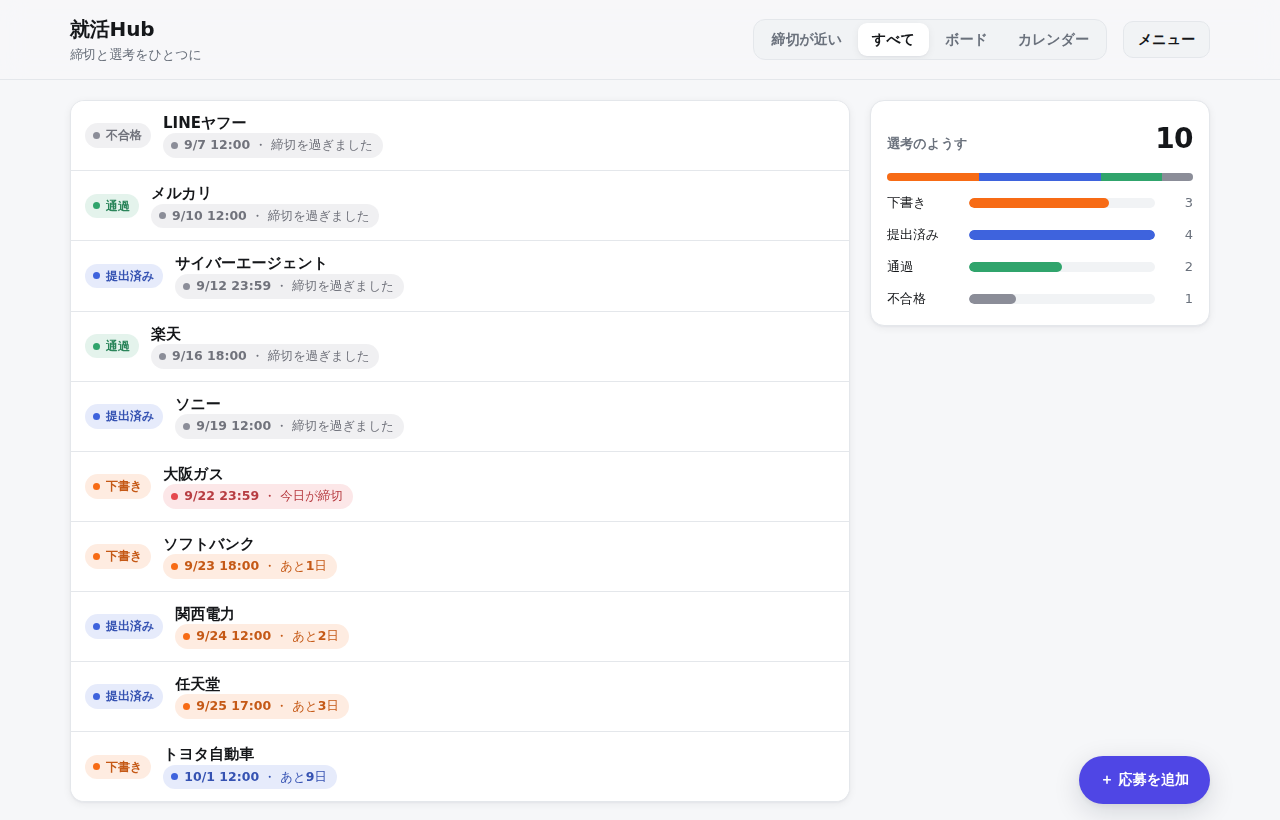
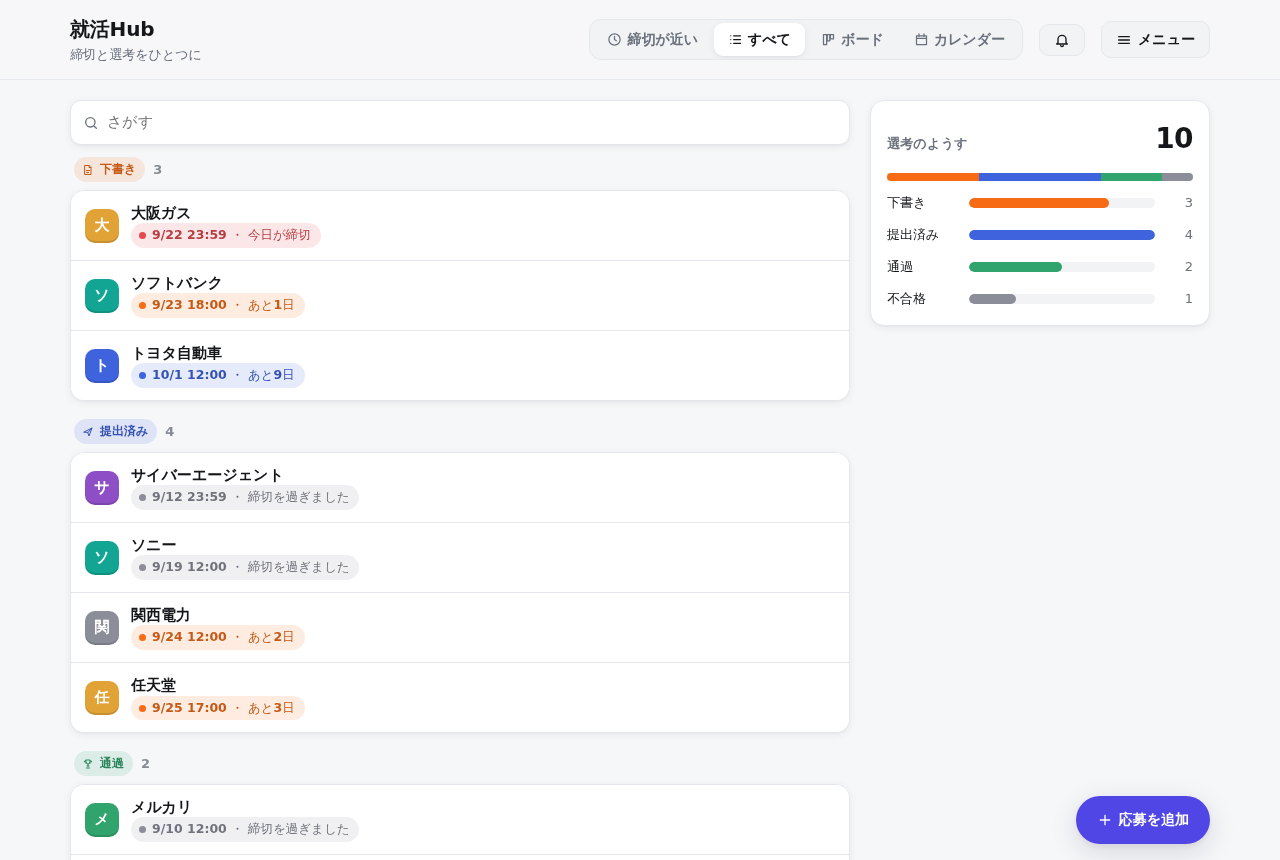
仕様書の画面の追補、QUESTIONS U6-U8、README の画面、REPORT
Claude-Session: https://claude.ai/code/session_019YbMfKhfobYUDvNw6a5grA

diff --git a/docs/言語仕様_v0.2.md b/docs/言語仕様_v0.2.md
@@ -421,11 +421,24 @@ words en
 | style の中の `ボタン名  tone main \| quiet \| good \| danger` | ボタンの強さと色 |
 | `#4F46E5` | `#` のすぐ後ろに16進の色が続く時は、コメントではなく色の値 |
 | `user taps X on 箱の名前` | list の名前でなく thing の名前で書けば、どの一覧・ボード・詳しくから押しても動く |
+| `button 名前 named 文字 icon 名前` | ボタンにアイコン。アイコンは組み込みの24個だけ（無い名前はエラー） |
+| `button 名前 named 文字 confirm "文"` | 押す前に確かめる。やめれば何も起きない |
+| `named "空白を含む 名前"` | 名前は1語。空白を含むなら引用符。ボタンの行に知らない語があればエラー |
+| `match Application.status to icon` / `match tab to icon` | 状態ごと・タブごとのアイコン（色の match とは別に持てる） |
+| `lead company`（look の中） | 頭文字の丸 |
+| `heading "..."`（look の中） | 見出しと件数 |
+| `search company, memo`（look の中） | 一覧の検索 |
+| `group by status`（look の中） | 状態ごとにまとめる |
+| `empty "..." button add named 追加`（look の中） | 1件も無い時の文と、次にやることのボタン |
+| `top  notices` | お知らせのベル（未読の数と一覧） |
+| `go EditApplication with this` | input を with this で開くと、その1件の編集。状態の項目は書き換えられない（move だけ） |
+| words の `"引用符の鍵"  訳` | spec にそのまま書いた日本語も訳せる |
 
 言語が画面を守るもの:
 - **flow で動けないボタンは、自動で押せなくなる。** rule が `move this to X` で、いまの状態から X へ動けなければ、そのボタンは薄くなって押せない。
 - **board でカードを動かすと move が起きる。** flow に無い流れは「『下書き』から『通過』へは動かせません」と断られる。
 - 画面の下（bottom）のボタンだけが目立つ色。上や一覧のボタンは控えめ（最初のボタンだけ強い）。
+- look の title / lead / search / group by に無い項目名、無いアイコン名、読めないボタンの行はエラー（28）。
 
 ### リアルタイム
 - 何も書かなくても画面は常に最新。箱が変わったら、それを見せている画面が自動で変わる。

diff --git a/REPORT.md b/REPORT.md
@@ -131,3 +131,12 @@ python experiment/score.py          # EXPERIMENT.md を上書き
 - 見つけて直した言語のバグ: `#4F46E5` がコメントとして消えていた。`days until` が until の上限チェックに引っかかっていた。
 - ブラウザ（Chromium）で、タブ・ボードのドラッグ（正しい流れと、断られる流れ）・詳しく・追加・メニュー・英語・スマホ・ダークを実際に操作して確かめた。テストは全体で152件通過。
 - 足した語は仕様書 6章の「画面のための追補（要確認）」と QUESTIONS_v0.2.md の U 節。
+
+## v0.2：言語で書ける画面を増やす（完了）
+
+見た目だけでなく、spec に書ける画面の語を増やした。全部チェッカーが見る。
+
+- アイコン（組み込み24個、`icon` と `match ... to icon`）、頭文字の丸（`lead`）、見出し（`heading`）、検索（`search`）、状態ごとのまとまり（`group by`）、空の時のボタン、押す前の確認（`confirm`）、お知らせのベル（`notices`）、編集（input を `with this` で開く）、引用符の鍵で spec の日本語もそのまま訳す（英語で画面の文字が全部切り替わる）。
+- チェッカー: 無いアイコン名、look に書いた無い項目名、読めないボタンの行はエラー（28）。
+- 見つけて直したバグ: 色の match と icon の match を両方書くと色が消えていた。メニューの小窓の背景がヘッダーの下に潜っていた。ボタンの名前に打ち間違いが紛れ込んでいた（名前は1語、空白は引用符に）。
+- ブラウザで、検索・確認（やめる）・編集して保存・ベル・英語・スマホ・ダークを操作して確かめた。画面のエラー0件。テストは全体で163件通過。

diff --git a/QUESTIONS_v0.2.md b/QUESTIONS_v0.2.md
@@ -113,3 +113,12 @@ tabs、this as detail、empty、part の中の計算、days until、match の数
 ### U5. match で「より小さい」が書けなかった
 過ぎた締切（マイナスの日数）を分けるのに、比べる書き方が無かった。
 - 仮: 数の範囲 `..-1` を足した。if を入れずに済む書き方として。
+
+### U6. 編集は input を with this で開く
+- 仮: 新しい語は足さず、`go EditApplication with this` で開いた input はその1件の編集にした。状態の項目は input に並べても書き換えられない（move だけ）。
+
+### U7. ボタンの名前は1語
+- 仮: `named 応募を追加` のように1語。空白を含むなら `named "Mark submitted"`。以前は後ろの語を全部名前にしていたので、打ち間違いが名前に紛れ込んでいた。
+
+### U8. match は「何から何へ」で1つ
+- 見つけたバグ: `match Application.status to color` と `... to icon` を両方書くと、後の方で前の方が消えていた。今は「〇〇 to △△」ごとに別に持つ。

diff --git a/README.md b/README.md
@@ -36,10 +36,14 @@ python -m pytest                                  # テスト
 
 `python -m lang run spec/hub_app.lang` で動かしたもの。依存は Python の標準機能だけ（画面も素の HTML / CSS / JavaScript）。
 
-| 締切が近い | すべて | ボード |
+| 締切が近い | すべて（検索・まとまり） | ボード |
 |---|---|---|
 | ![](docs/screenshots/home.png) | ![](docs/screenshots/all.png) | ![](docs/screenshots/board.png) |
 
-| カレンダー | 詳しく | スマホ | ダーク |
+| カレンダー | 詳しく（編集のあと） | 確認 | 英語 |
 |---|---|---|---|
-| ![](docs/screenshots/calendar.png) | ![](docs/screenshots/detail.png) | ![](docs/screenshots/phone.png) | ![](docs/screenshots/dark.png) |
+| ![](docs/screenshots/calendar.png) | ![](docs/screenshots/detail.png) | ![](docs/screenshots/confirm.png) | ![](docs/screenshots/english.png) |
+
+| スマホ | ダーク |
+|---|---|
+| ![](docs/screenshots/phone.png) | ![](docs/screenshots/dark.png) |
